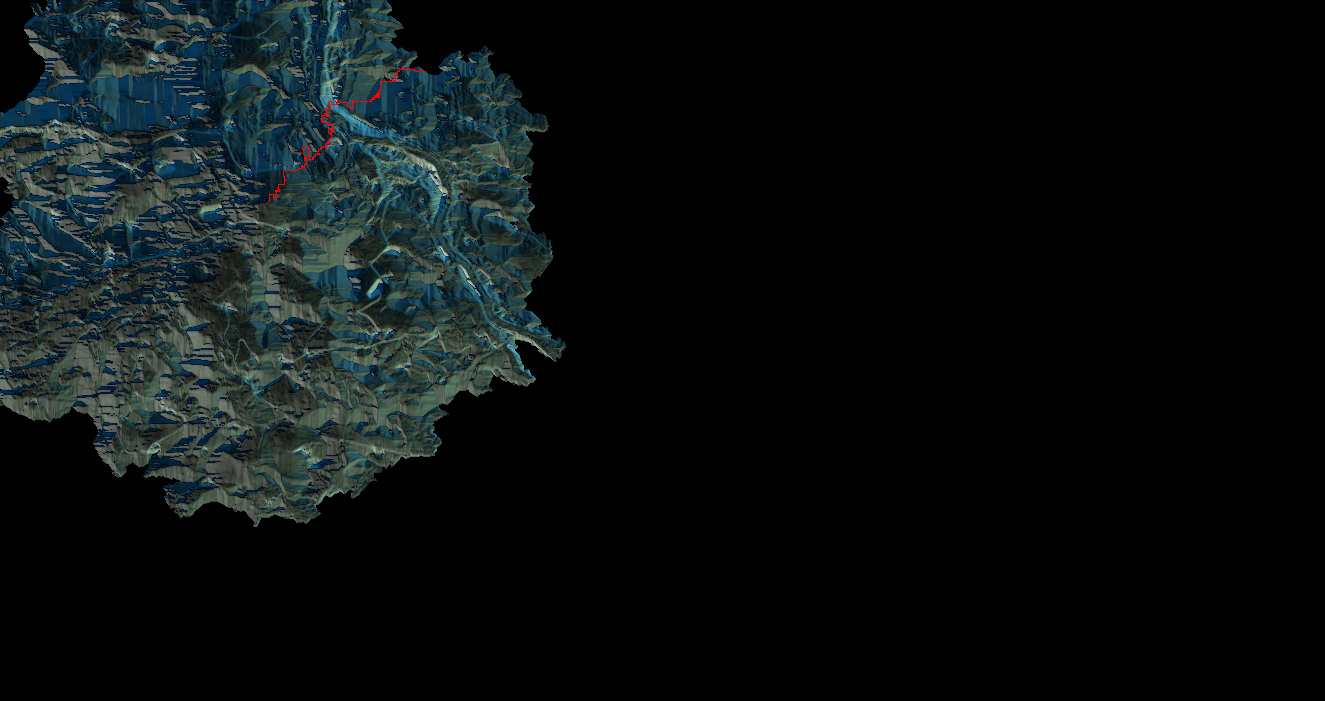
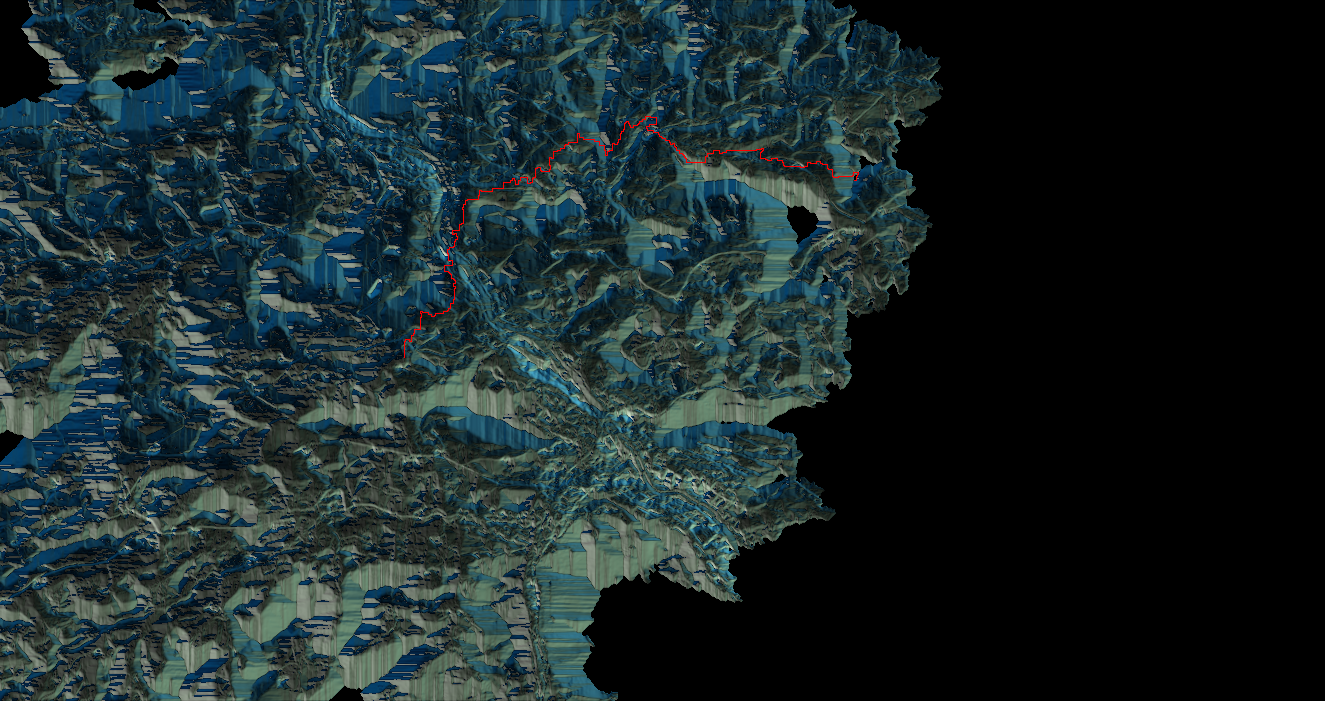
Insertion of new gradient function in interface + new error put forward in dijkstra.py + for distant points, the algorithm fails to converge in a sensible time

diff --git a/dijkstra.py b/dijkstra.py
@@ -271,7 +271,9 @@ def distances_map(start: pc.Point, end: pc.Point, grey_levels: ui.GreyImage) -> 
     """Generates a colored distances map from start to end points based on grey levels."""
     return coloration_map(distances_costs(start, end, grey_levels), grey_levels)
 
-def amelioration_descent(distances: dict[pc.Point, float], grey_levels: ui.GreyImage, start_point: pc.Point, end_point: pc.Point, list_visited: list[pc.Point]) -> list[pc.Point]:
+def amelioration_descent(distances: dict[pc.Point, float], grey_levels: ui.GreyImage, 
+                         start_point: pc.Point, end_point: pc.Point, 
+                         list_visited: list[pc.Point]) -> list[pc.Point]:
     initial_descent = gradient_descent(distances, grey_levels, start_point, end_point, list_visited)
     print("initial gradient done")
     final_descent = [initial_descent[0]]
@@ -313,8 +315,8 @@ if __name__ == "__main__":
     print(im.width, im.height)
     # start = pc.Point(446,332)
     # end = pc.Point(716,272)
-    start = pc.Point(165,85)
-    end = pc.Point(171,252)
+    start = pc.Point(58,47)
+    end = pc.Point(165,159)
     list_visited = []
     distances = distances_costs(start, end, im, list_visited)
     print("distances okay")

diff --git a/interface.py b/interface.py
@@ -337,7 +337,7 @@ class Menu(widgets.QGroupBox):
             self._vue.print_stocked_image(self._optimal_path_image_name)
         elif self._starting_and_ending_points_set:
             im = self._original_image_grey_level
-            descent = dijkstra.gradient_descent(self._distances_costs, im, self._starting_point, self._ending_point, self._list_visited)
+            descent = dijkstra.amelioration_descent(self._distances_costs, im, self._starting_point, self._ending_point, self._list_visited)
             final_img = dijkstra.affiche_descent(descent, self._grad_image)
             img = Image.fromarray(final_img)
             img.save(self._optimal_path_image_name)
